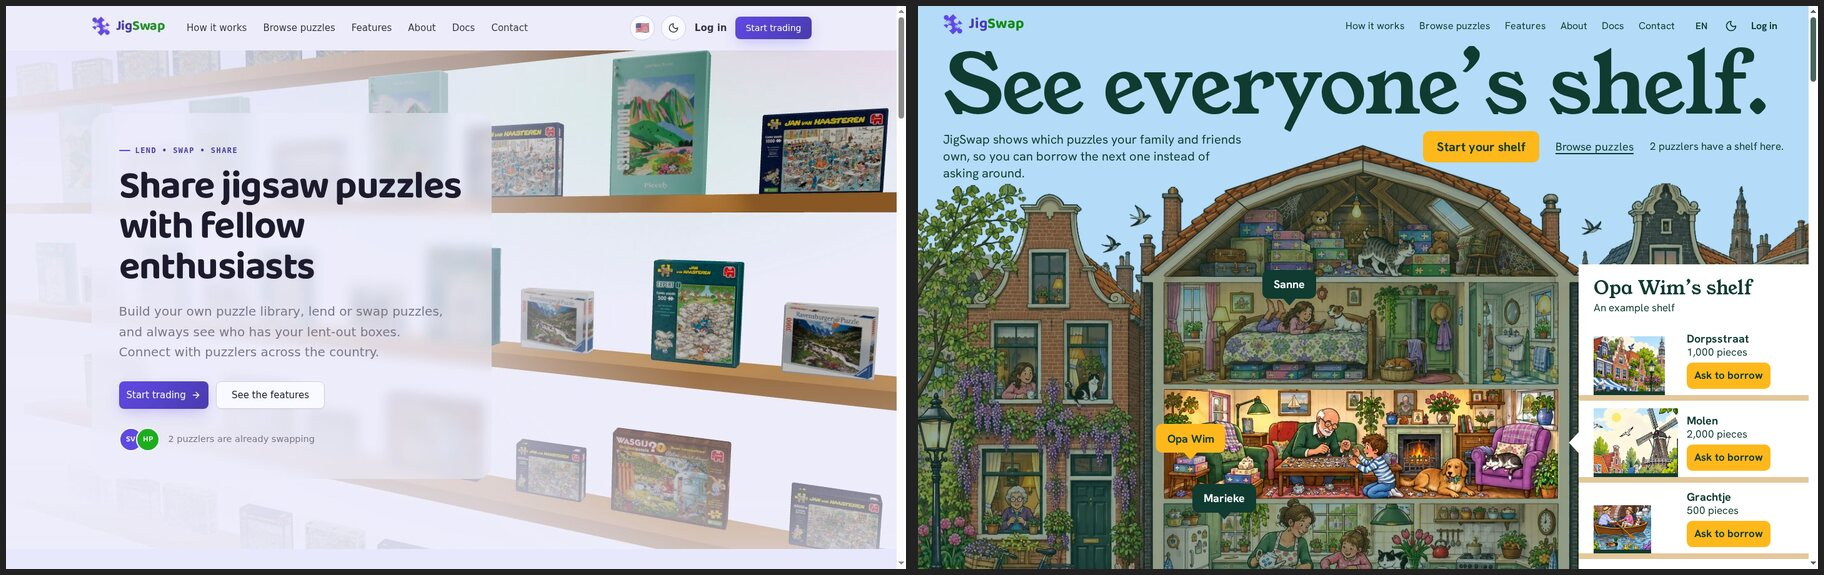
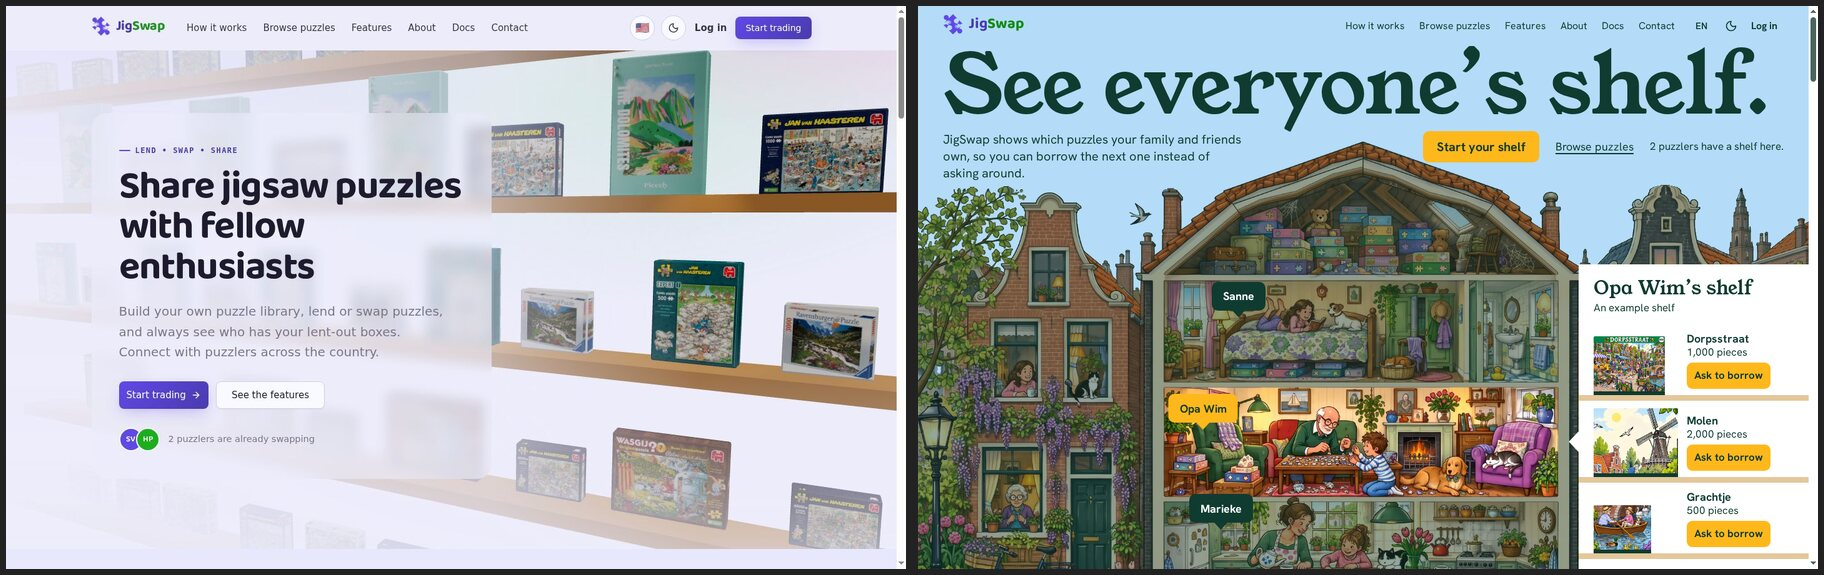
feat(web): use the owner's new house art and Dorpsstraat lid
Replace the hero with the owner's 2000px render, cut out on a transparent sky,
with its clipped roof finished from its own tiles under a Dutch break in the
pitch. Re-measure the floors, pins and phone window for the new geometry. Re-cut
the kitchen, living room, bedroom and attic crops from the same art, and make the
Dorpsstraat cover the owner's real box lid. Keep both originals in assets/.

Intent: the first screen stays sharp on large and retina screens and shows boxes
in more of the house, while every promise holds: all three pins on the first
screen from 1280x720 up, each pin on its own floor on a phone, the roof clear of
the headline, and no sky halo on the dark theme. The file is smaller than the art
it replaces. The roof's finish lives in the webp, not in code, so a future render
with headroom simply replaces it after the same measurements.

Changed region(s): [[0.5, 0.2365, 1.0, 1.0]]

diff --git a/apps/web/src/components/marketing/home/hero.tsx b/apps/web/src/components/marketing/home/hero.tsx
@@ -34,7 +34,7 @@ const PUZZLES = {
 // A box's width in the shelf's cover column follows its piece count, so the row reads as real boxes.
 const BOX_WIDTH = { 500: "w-[68%]", 1000: "w-[85%]", 2000: "w-full" } as const;
 
-// Each person lives on a floor of house-cut.webp (1536x950) and is who the art shows there. `floor` is
+// Each person lives on a floor of house-cut.webp (2000x1228) and is who the art shows there. `floor` is
 // the height the drawer's notch points at, in art pixels. `pin` places the button on the art, high in
 // the floor so the lowest pin clears the fold on a short laptop; `phonePin` keeps the larger-looking
 // button wholly on its floor and clear of the wall at phone scale. `hole` is the even-odd polygon that
@@ -43,29 +43,29 @@ const PEOPLE = [
   {
     id: "sanne",
     name: "Sanne",
-    floor: 330,
+    floor: 427,
     boxes: ["theekoepel", "tulpen", "eendenvijver", "grachtje"],
-    pin: { x: "41.7%", y: "28.6%" },
-    phonePin: { x: "36%", y: "37.2%" },
-    hole: "polygon(evenodd,0 0,100% 0,100% 100%,0 100%,0 0,27.55% 25.6%,71.95% 25.6%,71.95% 44.1%,27.55% 44.1%,27.55% 25.6%)",
+    pin: { x: "36%", y: "31%" },
+    phonePin: { x: "32.4%", y: "36.8%" },
+    hole: "polygon(evenodd,0 0,100% 0,100% 100%,0 100%,0 0,27.6% 25.41%,71.9% 25.41%,71.9% 44.14%,27.6% 44.14%,27.6% 25.41%)",
   },
   {
     id: "opa",
     name: "Opa Wim",
-    floor: 520,
+    floor: 675,
     boxes: ["dorpsstraat", "molen", "grachtje"],
-    pin: { x: "30.6%", y: "56.6%" },
-    phonePin: { x: "35%", y: "56.7%" },
-    hole: "polygon(evenodd,0 0,100% 0,100% 100%,0 100%,0 0,27.55% 45%,71.95% 45%,71.95% 64.85%,27.55% 64.85%,27.55% 45%)",
+    pin: { x: "32%", y: "51.5%" },
+    phonePin: { x: "33.85%", y: "56.35%" },
+    hole: "polygon(evenodd,0 0,100% 0,100% 100%,0 100%,0 0,27.6% 44.95%,71.9% 44.95%,71.9% 65.07%,27.6% 65.07%,27.6% 44.95%)",
   },
   {
     id: "marieke",
     name: "Marieke",
-    floor: 690,
+    floor: 922,
     boxes: ["amsterdam", "tulpen"],
-    pin: { x: "34.4%", y: "67.4%" },
-    phonePin: { x: "35%", y: "77.5%" },
-    hole: "polygon(evenodd,0 0,100% 0,100% 100%,0 100%,0 0,27.55% 65.75%,71.95% 65.75%,71.95% 84.15%,27.55% 84.15%,27.55% 65.75%)",
+    pin: { x: "34%", y: "69.8%" },
+    phonePin: { x: "33.45%", y: "77.2%" },
+    hole: "polygon(evenodd,0 0,100% 0,100% 100%,0 100%,0 0,27.6% 65.8%,71.9% 65.8%,71.9% 84.45%,27.6% 84.45%,27.6% 65.8%)",
   },
 ] as const satisfies ReadonlyArray<{
   id: string;
@@ -146,7 +146,7 @@ function ShelfRow({
 
 // The street with the fronts off: the sky's text, then the cutaway house edge to edge, with a pin on
 // each of three floors. Choosing a pin strikes that floor forward and docks that person's shelf.
-// Phone: title, the house alone (a window on the art from x 370 to 1140 and y 80 to 810), sentence,
+// Phone: title, the house alone (a window on the art from x 495 to 1495 and y 0 to 1040), sentence,
 // actions, shelf.
 export function Hero() {
   const t = useTranslations("marketing");
@@ -182,7 +182,7 @@ export function Hero() {
       const drawer = drawerRef.current;
       if (!art || !drawer) return;
       const box = drawer.getBoundingClientRect();
-      const y = art.top + person.floor * (art.width / 1536) - box.top - 18;
+      const y = art.top + person.floor * (art.width / 2000) - box.top - 18;
       const notch = Math.max(12, Math.min(box.height - 48, y));
       drawer.style.setProperty("--notch", `${notch}px`);
     };
@@ -238,15 +238,15 @@ export function Hero() {
         </div>
       </div>
 
-      <div className="contents min-[760px]:relative min-[760px]:block min-[1180px]:mt-[calc(100cqw/1536*-86+14px)]">
-        <div className="relative order-2 h-[calc(100cqw/770*730)] overflow-hidden min-[760px]:h-auto min-[760px]:overflow-visible">
-          <div className="absolute top-[calc(100cqw/770*-80)] left-[calc(100cqw/770*-370)] w-[calc(100cqw/770*1536)] min-[760px]:relative min-[760px]:top-0 min-[760px]:left-0 min-[760px]:w-full">
+      <div className="contents min-[760px]:relative min-[760px]:block min-[1180px]:mt-[calc(100cqw/2000*-112+14px)]">
+        <div className="relative order-2 h-[calc(100cqw/1000*1040)] overflow-hidden min-[760px]:h-auto min-[760px]:overflow-visible">
+          <div className="absolute top-0 left-[calc(100cqw/1000*-495)] w-[calc(100cqw/1000*2000)] min-[760px]:relative min-[760px]:top-0 min-[760px]:left-0 min-[760px]:w-full">
             <img
               ref={artRef}
               src={houseCut}
               alt={t("home.heroAlt")}
-              width={1536}
-              height={950}
+              width={2000}
+              height={1228}
               fetchPriority="high"
               decoding="async"
               className="block h-auto w-full max-w-none"
@@ -302,7 +302,7 @@ export function Hero() {
           </div>
         </div>
 
-        <div className="contents min-[1180px]:pointer-events-none min-[1180px]:absolute min-[1180px]:top-[calc(100cqw/1536*86-14px)] min-[1180px]:right-0 min-[1180px]:bottom-0 min-[1180px]:flex min-[1180px]:w-[25.8%] min-[1180px]:flex-col">
+        <div className="contents min-[1180px]:pointer-events-none min-[1180px]:absolute min-[1180px]:top-[calc(100cqw/2000*112-14px)] min-[1180px]:right-0 min-[1180px]:bottom-0 min-[1180px]:flex min-[1180px]:w-[25.8%] min-[1180px]:flex-col">
           <aside
             ref={drawerRef}
             aria-labelledby="hero-shelf-title"

diff --git a/apps/web/src/components/marketing/home/hero.test.tsx b/apps/web/src/components/marketing/home/hero.test.tsx
@@ -75,8 +75,8 @@ describe("Hero", () => {
     const images = render("en").match(/<img[^>]*>/g) ?? [];
     const house = images.filter((img) => img.includes("fetchPriority"));
     expect(house).toHaveLength(1);
-    expect(house[0]).toContain('width="1536"');
-    expect(house[0]).toContain('height="950"');
+    expect(house[0]).toContain('width="2000"');
+    expect(house[0]).toContain('height="1228"');
     expect(house[0]).not.toContain("lazy");
     for (const img of images.filter((i) => !i.includes("fetchPriority"))) {
       expect(img).toContain('loading="lazy"');

diff --git a/apps/web/PRODUCT.md b/apps/web/PRODUCT.md
@@ -40,7 +40,7 @@ A home with physical boxes on a shelf, a kitchen table with a puzzle in progress
 
 ## Evidence on Hand
 
-- Original illustrated scenes in the JigSwap style, in `assets/`: `dutch-vilage-street.png`, `puzzle-house.png`, `puzzle-swap-party.png`, `puzzle-party-2.png`, `puzzle-party-3.png`. The owner approved them as the main imagery. Crops ship from `apps/web/src/components/marketing/assets/art/`.
+- Original illustrated scenes in the JigSwap style, in `assets/`: `dutch-vilage-street.png`, `puzzle-house.png`, `puzzle-swap-party.png`, `puzzle-party-2.png`, `puzzle-party-3.png`, plus newer renders `puzzle-house-2.png` and `lids/dorpsstraat.png`. The owner approved them as the main imagery. Crops ship from `apps/web/src/components/marketing/assets/art/`.
 - Live platform counts from the real database: members, catalogue puzzles, puzzles on shelves. The owner keeps these on the home page, whatever their current size.
 - The family's own quote and the kitchen-table story on About.
 - There are no customer testimonials, press mentions, partner logos or pricing. Do not invent any.
